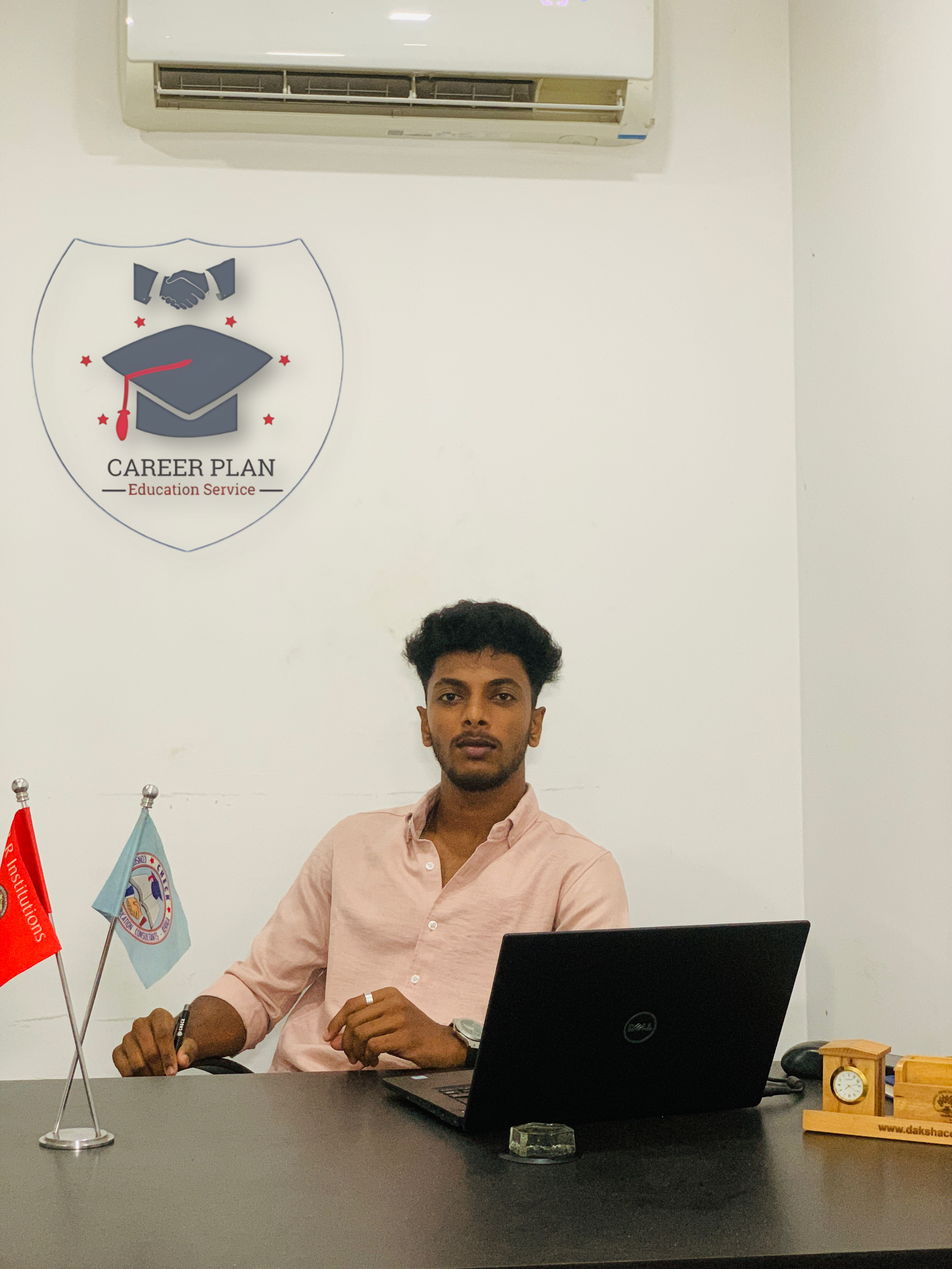
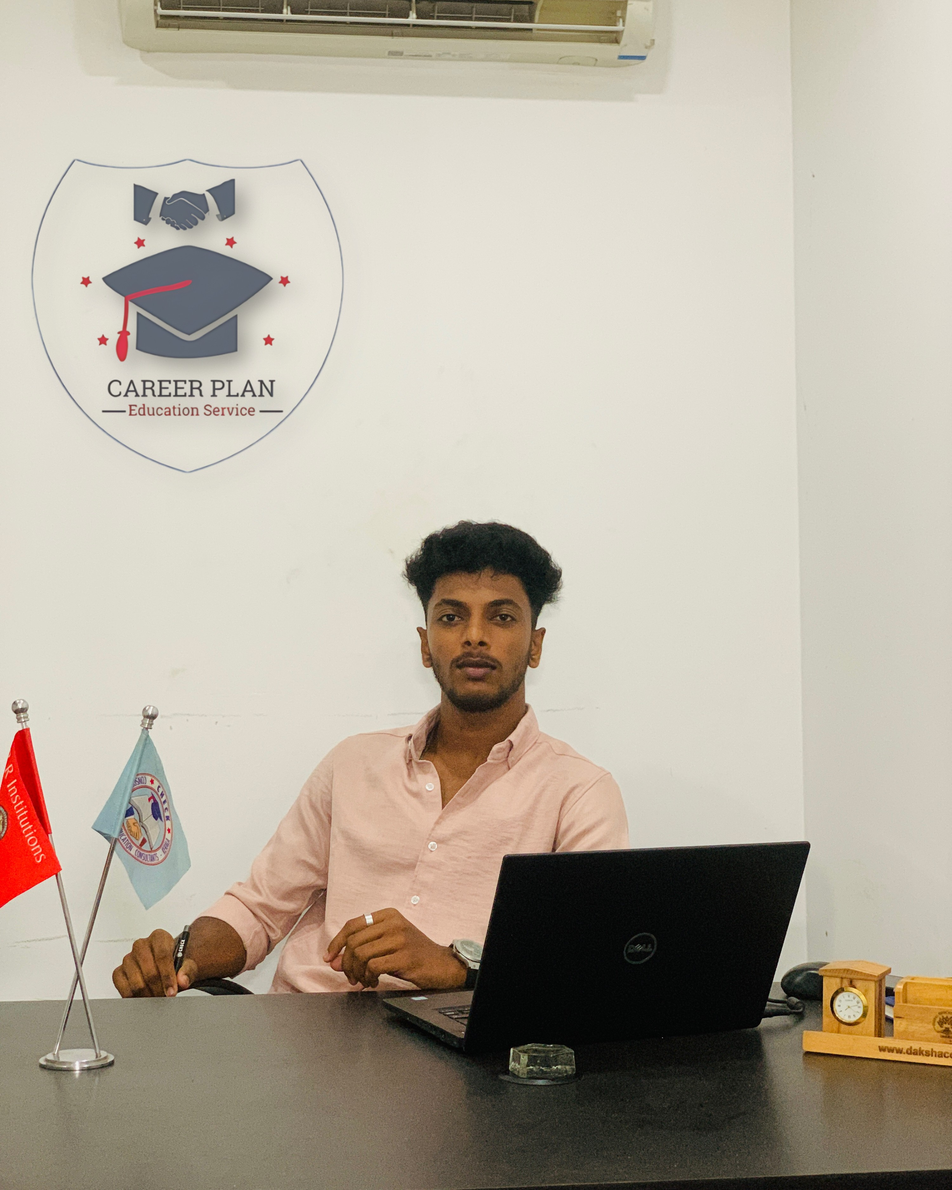
edited

diff --git a/abhijith.html b/abhijith.html
@@ -41,9 +41,7 @@
   <div class="container p-4">
     <div class="row">
       <div class="col-md-6 col-12">
-        <center>
-        <img src="IMG_4715 (2).JPEG" height="500em">
-        </center>
+        <img src="IMG_4715 (2).JPEG" width="100%" class="d-block ">
       </div>
       <div class="col-md-6 col-12" id="about-us">
         <br>
